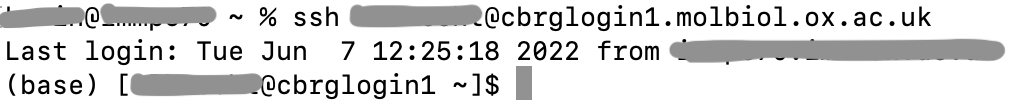
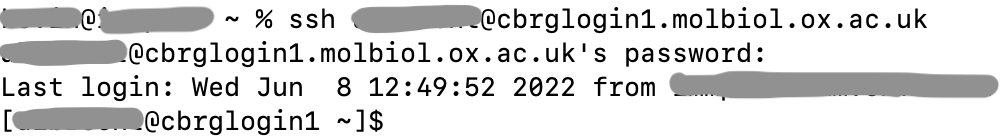
Add how-to in intro and update screenshots (#49)
* mark external links with arrow

* add howto in introduction

* update screenshots

diff --git a/content/en/docs/vpn/setup/index.md b/content/en/docs/vpn/setup/index.md
@@ -21,13 +21,13 @@ When your device is not directly connected to the University campus network
 (e.g., when you are working from home or travelling), the VPN Service allows
 you to access the University campus network, and thus the CCB cluster.
 
-The web page <https://help.it.ox.ac.uk/vpn> provide the latest information
+The web page [Virtual private network (VPN) →](https://help.it.ox.ac.uk/vpn) provide the latest information
 about requirements and instructions to set up recommended VPN clients.
 Most of the sections below refer to instructions on that page.
 
 ## Set up a VPN client
 
-On the web page <https://help.it.ox.ac.uk/vpn>, expand the section
+On the web page [Virtual private network (VPN) →](https://help.it.ox.ac.uk/vpn), expand the section
 'Setup Cisco AnyConnect'.
 
 Click on the operating system for your device and follow the instructions.
@@ -50,7 +50,7 @@ display 'University VPN' in the dropdown menu.
 
 ## Connection
 
-On the web page <https://help.it.ox.ac.uk/vpn>, expand the section
+On the web page [Virtual private network (VPN) →](https://help.it.ox.ac.uk/vpn), expand the section
 'Connect using Cisco AnyConnect'.
 
 The first time that you connect to the University VPN, you must type the
@@ -70,7 +70,7 @@ CCB cluster.
 
 ## Disconnection
 
-On the web page <https://help.it.ox.ac.uk/vpn>, expand the section
+On the web page [Virtual private network (VPN) →](https://help.it.ox.ac.uk/vpn), expand the section
 'Disconnect using Cisco AnyConnect'.
 
 Your device will use the University VPN service until you disconnect.
@@ -91,7 +91,7 @@ your own internet connection again.
 
 ## Further reading
 
-On the web page <https://help.it.ox.ac.uk/vpn>, you can find useful information
+On the web page [Virtual private network (VPN) →](https://help.it.ox.ac.uk/vpn), you can find useful information
 organised in various sections.
 
 The section 'FAQ' details frequently asked questions and answers.

diff --git a/content/en/docs/ssh/ssh-host/index.md b/content/en/docs/ssh/ssh-host/index.md
@@ -23,8 +23,8 @@ specific to each host.
 In this section, we describe how to configure parameters that are specific
 to different hosts.
 
-Recommended parameters shared across all remote hosts are described in the page
-[Set up an SSH key pair](../ssh-key-pair/#configuring-the-ssh-client).
+Recommended parameters shared across all remote hosts are described in the earlier
+page [Set up an SSH key pair](../ssh-key-pair/#configuring-the-ssh-client).
 
 ## Configure a remote host
 
@@ -56,7 +56,7 @@ Those lines configure three remote hosts.
   However, four spaces are commonly used for readability.
 
 More information about fields that may be configured is available on the page
-<https://linux.die.net/man/5/ssh_config>.
+[ssh_config(5) - Linux man page →](https://linux.die.net/man/5/ssh_config).
 
 ## Connect to a configured remote host
 
@@ -77,6 +77,6 @@ Initially, the `ssh` command is typed in the prompt of the personal computer.
 Once the connection is established, the prompt of the remote host appears
 (in this case, `cbrglogin1`).
 
-![Connecting to a configured SSH host.](ssh-host.png)
+![Connecting to a configured SSH host.](ssh-screenshot.png)
 
 <p align='center'><i>Connecting to a configured SSH host.</i></p>

diff --git a/content/en/docs/ssh/ssh-key-pair/index.md b/content/en/docs/ssh/ssh-key-pair/index.md
@@ -145,7 +145,7 @@ using the `ssh` command.
 * The field `XAuthLocation` specifies the full pathname of the `xauth` program.
 
 More information about fields that may be configured is available on the page
-<https://linux.die.net/man/5/ssh_config>.
+[ssh_config(5) - Linux man page →](https://linux.die.net/man/5/ssh_config).
 
 MacOS-only fields:
 
@@ -154,10 +154,10 @@ MacOS-only fields:
 * The field `UseKeychain` specifies whether passphrases are stored in the keychain.
 
 More information about fields that may be configured for macOS is available on the page
-<https://man.openbsd.org/ssh_config>.
+[OpenBSD manual page server →](https://man.openbsd.org/ssh_config).
 
 More information on the field `UseKeychain` is available on the page
-<https://developer.apple.com/library/archive/technotes/tn2449/_index.html>.
+[Technical Note TN2449 →](https://developer.apple.com/library/archive/technotes/tn2449/_index.html).
 
 ## Log in with your SSH key pair
 

diff --git a/content/en/docs/prologue/introduction.md b/content/en/docs/prologue/introduction.md
@@ -13,6 +13,16 @@ weight: 100
 toc: true
 ---
 
+## How to use this documentation
+
+This documentation is organised as a chronological progression through the typical setup
+of new users of the MRC WIMM CCB services.
+
+We encourage readers to follow instructions in this documentation in the order presented.
+
+Following instructions out of order or skipping instructions is likely to produce unexpected
+results.
+
 ## Get started
 
 {{< alert icon="👉" text="The MRC WIMM CCB services are available to members of staff and close collaborators." />}}
